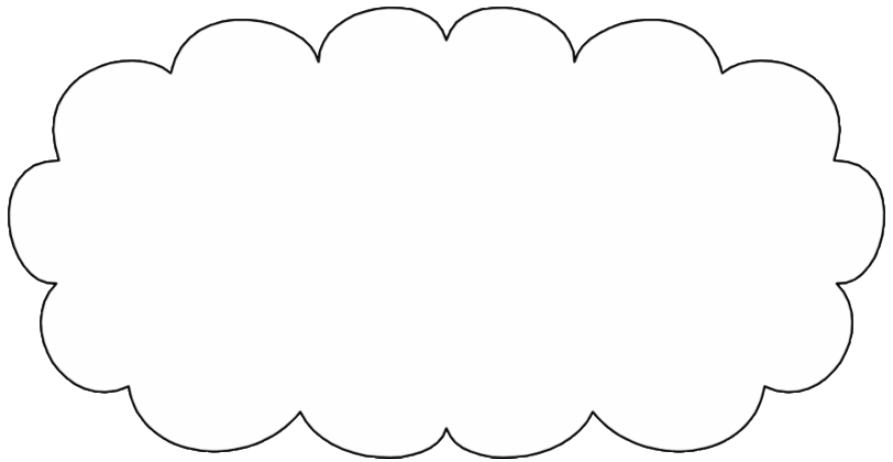
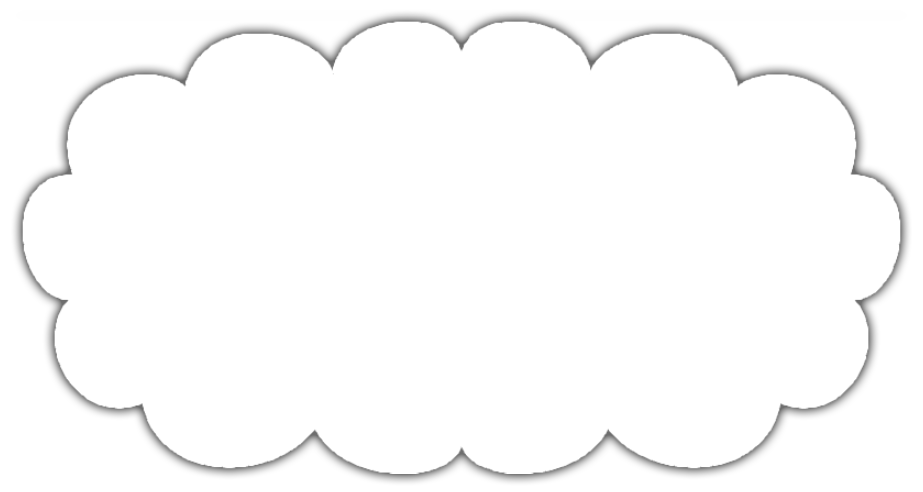
Retoques en la interfaz

Changed region(s): [[0.0, 0.0, 0.9978, 1.0]]

diff --git a/client/src/game/managers/dialogManager.js b/client/src/game/managers/dialogManager.js
@@ -46,10 +46,13 @@ export default class DialogManager {
 
         this.textbox = new TextBox(scene, this);
 
-        this.thoughtBox = this.createThoughtBox(scene, "Quiero decir...", "Escribe aquí.", (textInput, button) => {
-            this.processThought(textInput, button);
+        const [thoughtBox, keyEnter] = this.createThoughtBox(scene, "Quiero decir...", "Escribe aquí.", (textInput, button, key) => {
+            this.processThought(textInput, button, key);
         })
+        this.thoughtBox = thoughtBox;
         this.thoughtBox.setVisible(false);
+
+        this.keyEnter = keyEnter;
 
         this.PORTRAIT_ANIM_TIME = 200;
 
@@ -79,30 +82,30 @@ export default class DialogManager {
         dreamBg.setAlpha(0.8);
         container.add(dreamBg)
 
-        const cloudContainer = new AnimatedContainer(scene, scene.CANVAS_WIDTH / 2, scene.CANVAS_HEIGHT / 2);
+        const cloudContainer = new AnimatedContainer(scene, scene.CANVAS_WIDTH / 2, scene.CANVAS_HEIGHT / 2 - 90);
 
         const cloud = scene.add.image(0, 0, "thoughtCloud");
-        cloud.setAlpha(0.7);
+        cloud.setAlpha(0.8);
         cloudContainer.add(cloud);
 
         const glowColor = Phaser.Display.Color.GetColor(220, 220, 220);
         const fx = cloud.postFX.addGlow(glowColor, 0, 0, false, 0.05, 20);
         scene.tweens.add({
             targets: fx,
-            outerStrength: { from: 1.5, to: 5 },
+            outerStrength: { from: 0, to: 1 },
             yoyo: true,
             loop: -1,
             ease: 'sine.inOut',
             duration: 3000,
         });
 
-        const y = 105
-        const width = cloud.displayWidth - 200;
+        const y = 120
+        const width = cloud.displayWidth - 220;
 
         const style = { ...TEXT_CONFIG }
         style.fontFamily = "roboto-regular"
         style.color = '#2e2e2e'
-        style.fontSize = 46;
+        style.fontSize = 40;
 
         const textStyle = { ...style }
         textStyle.fontStyle = "bold";
@@ -112,31 +115,44 @@ export default class DialogManager {
         cloudContainer.add(text);
 
         const inputStyle = { ...style }
-        inputStyle.fontSize = 40;
+        inputStyle.fontSize = 37;
         style.wordWrap = {
             width: width,
-            useAdvancedWrap: true
+            useAdvancedWrap: false
         }
 
         const defaultStyle = { ...inputStyle }
         defaultStyle.fontStyle = "italic";
 
-        const textInput = new TextInput(scene, 0, y - cloud.displayHeight / 2 + text.displayHeight / 2 + 50, width, cloud.displayHeight - 320, defaultText, defaultStyle, style, false, 0.5, 0, 0, 0, 0, 0, 0, 0, 0, 0)
+        const textInput = new TextInput(scene, 0, y - cloud.displayHeight / 2 + text.displayHeight / 2 + 45, width, cloud.displayHeight - 320, defaultText, defaultStyle, style, false, 0.5, 0, 0, 0, 0, 0, 0, 0, 0, 0)
         cloudContainer.add(textInput);
 
-        const button = scene.add.image(0, textInput.y + textInput.height + 50, 'arrowIcon');
-        button.setTintFill(0x323232);
+        const keyEnter = this.scene.input.keyboard.addKey(
+            Phaser.Input.Keyboard.KeyCodes.ENTER
+        );
+        keyEnter.enabled = false;
+
+        const button = scene.add.image(235, textInput.y + textInput.height + 50, 'introIcon');
         button.setScale(0.27);
         growAnimation(button, [button], () => {
             if (onClick != null && typeof onClick == "function") {
-                onClick(textInput, button);
+                onClick(textInput, button, keyEnter);
             }
         }, false, false, 1.2, 0)
+
+        this.scene.input.keyboard.off('keydown-ENTER');
+
+        keyEnter.on('down', () => {
+            if (onClick != null && typeof onClick == "function") {
+                onClick(textInput, button, keyEnter);
+            }
+        })
+
         cloudContainer.add(button);
 
         container.add(cloudContainer);
 
-        return container;
+        return [container, keyEnter];
     }
 
 
@@ -394,29 +410,23 @@ export default class DialogManager {
         if (textInput.containsText()) {
             const text = textInput.getText();
             textInput.activateInput(false);
-
+            
             let delay = 0;
             if (this.currNode.nextDelay != null) {
                 delay = this.currNode.nextDelay;
             }
-
+            
+            this.keyEnter.enabled = false;
             button.disableInteractive();
-
-            // setTimeout(() => {
-            //     this.thoughtBox.activate(false, 150, () => {
-            //         textInput.clear();
-            //         this.currNode = this.currNode.next[9];
-            //         button.setInteractive();
-            //         this.processNextNode(delay);
-            //     })
-            // }, 5000)
-
+            
+            // TODO: TRACKER EVENT
             this.processSimilarityNode(this.currNode, text)
                 .then(index => {
                     this.thoughtBox.activate(false, 150, () => {
                         textInput.clear();
-                        this.currNode = this.currNode.next[index];
                         button.setInteractive();
+
+                        this.currNode = this.currNode.next[index];
                         this.processNextNode(delay);
                     });
                 });
@@ -452,7 +462,9 @@ export default class DialogManager {
                 this.activateOptions(true);
             }
             else if (this.currNode.type === "similarity") {
-                this.thoughtBox.activate(true, 250);
+                this.thoughtBox.activate(true, 250, () => {
+                    this.keyEnter.enabled = true;
+                });
             }
             else if (this.currNode.type === "text") {
                 // Si el nodo no tiene texto, se lo salta y pasa al siguiente nodo

diff --git a/client/src/game/scenes/preloader.js b/client/src/game/scenes/preloader.js
@@ -25,7 +25,7 @@ export default class Preloader extends Scene {
         this.load.image('myBubble', 'myBubble.png');
         this.load.image('othersBubble', 'othersBubble.png');
         this.load.image('thoughtCloud', 'thoughtCloud.png');
-        this.load.image('arrowIcon', 'arrowIcon.png');
+        this.load.image('introIcon', 'introIcon.png');
     }
 
     loadComputerAssets() {
